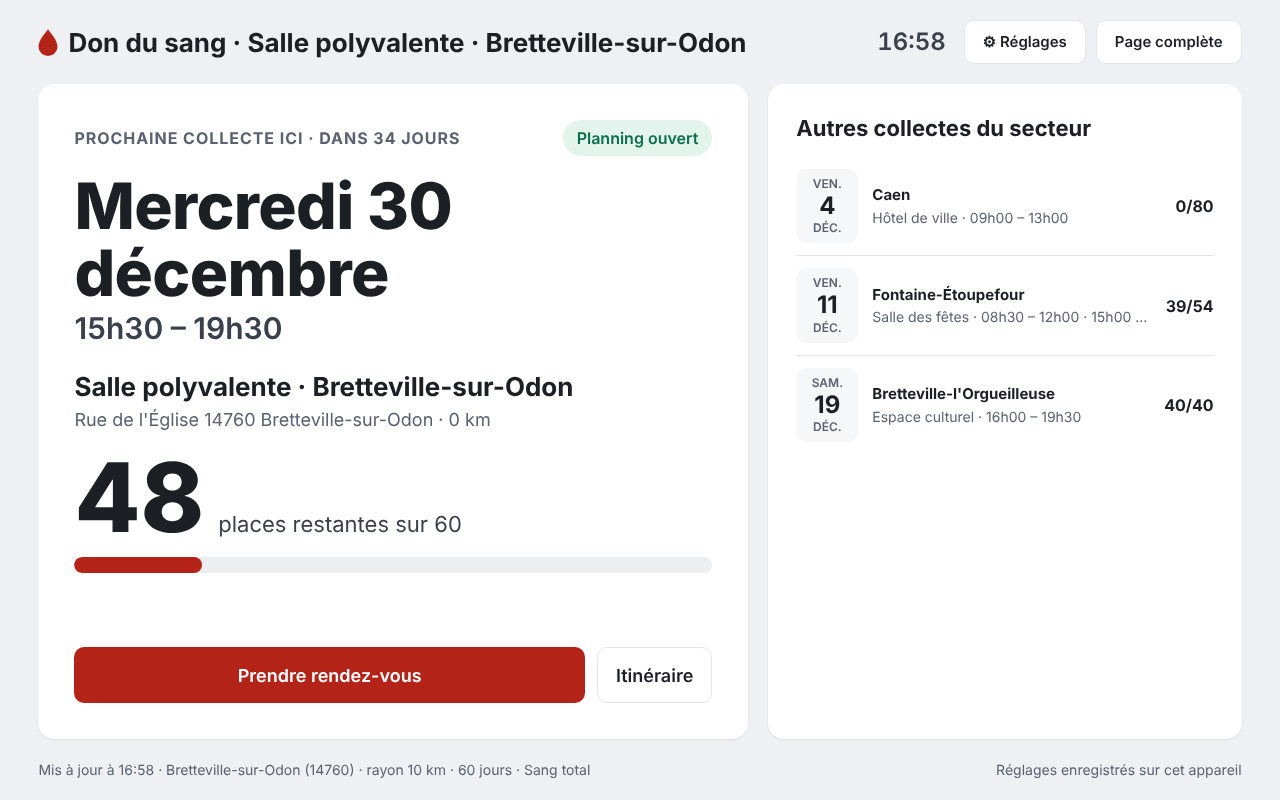
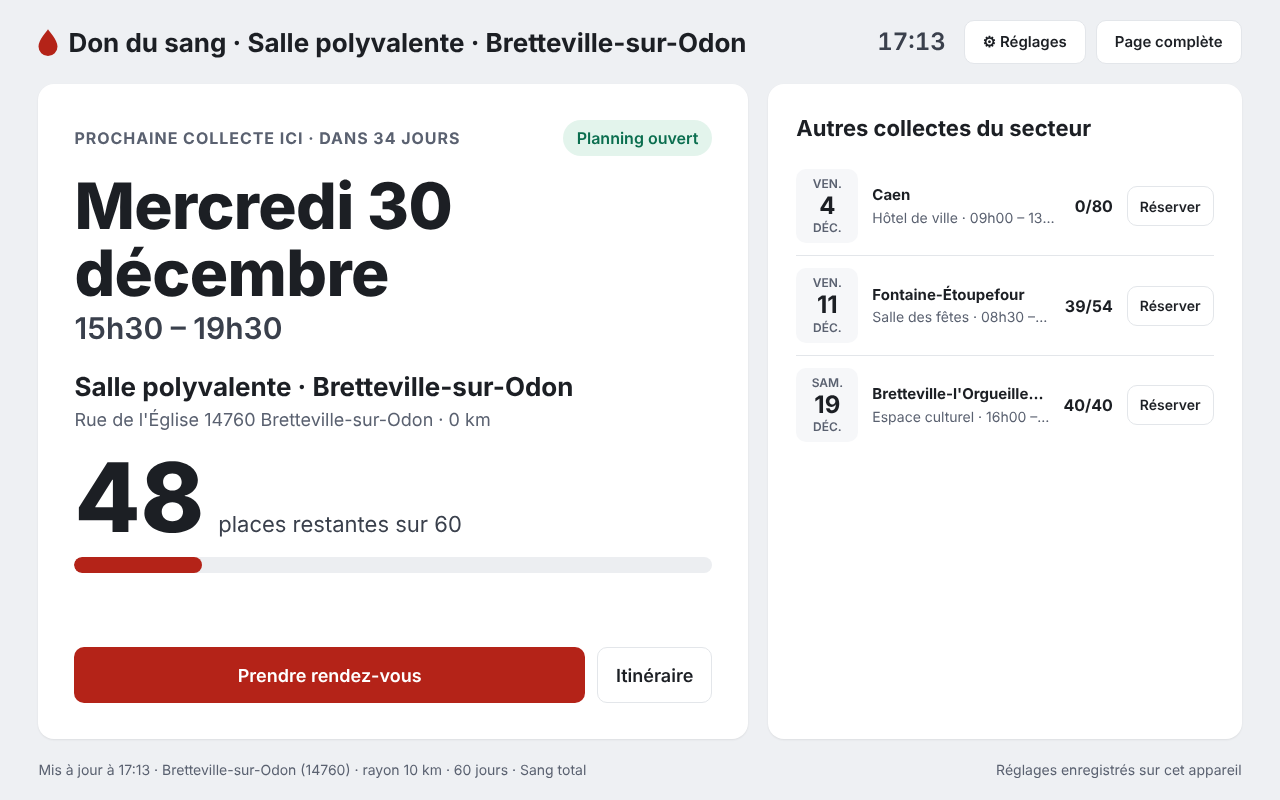
Mode tablette : prise de rendez-vous dans une fenêtre séparée, retour automatique à la tablette
- « Prendre rendez-vous » et « Réserver » (autres collectes) ouvrent le site de l'EFS
  dans une fenêtre dédiée (nouvel onglet sur tablette)
- encart « Prise de rendez-vous en cours » : afficher la fenêtre, la fermer et revenir
- fermeture détectée (surveillance, retour au premier plan) : encart retiré,
  places relues ; repli en onglet classique si les fenêtres sont bloquées
- documentation et captures

Claude-Session: https://claude.ai/code/session_01882uboDzkT9kSx2WJVyJE4

diff --git a/site/js/app.js b/site/js/app.js
@@ -901,7 +901,7 @@
         reglages()));
     } else {
       const ouvert = c.placesRestantes !== null;
-      const rdv = boutonRdv(c);
+      const rdv = boutonRdvTablette(c);
       const carte = h("article", { class: "card tab-carte", "aria-label": "Prochaine collecte" },
         h("div", { class: "row" },
           h("div", { class: "kicker" }, `${auLieu ? "Prochaine collecte ici" : "Prochaine collecte"} · ${relDay(daysUntil(c))}`),
@@ -926,9 +926,12 @@
           ? h("ul", null, suite.map((x) => h("li", null,
             h("div", { class: "d" }, h("small", null, fWd.format(x.debut)), h("strong", null, fDay.format(x.debut)), h("small", null, fMon.format(x.debut))),
             h("div", { class: "who" }, h("b", null, titreCommune(x.commune || x.lieu)), h("span", null, `${x.lieu} · ${x.horaires}`)),
-            h("div", { class: "pl" }, x.placesRestantes === null ? "—" : x.placesTotales ? `${x.placesRestantes}/${x.placesTotales}` : x.placesRestantes))))
+            h("div", { class: "pl" }, x.placesRestantes === null ? "—" : x.placesTotales ? `${x.placesRestantes}/${x.placesTotales}` : x.placesRestantes),
+            h("button", { class: "btn secondary resa", type: "button", onclick: () => ouvrirRdv(x),
+              "aria-label": `Réserver : ${titreCommune(x.commune || x.lieu)}, ${fDateLong.format(x.debut)}` }, "Réserver"))))
           : h("p", { class: "muted" }, "Aucune autre collecte dans la période."));
-      mount("tab-main", alerte, carte, suiteCarte);
+      const info = state.rdvInfo ? h("div", { class: "notice tab-info", role: "status" }, h("p", null, state.rdvInfo)) : null;
+      mount("tab-main", info, alerte, carte, suiteCarte);
     }
     mount("tab-pied",
       h("span", null, [
@@ -941,6 +944,89 @@
       state.tabPremier = false;
       openReglages();
     }
+  }
+
+  // ------------------------------------------------- rendez-vous depuis la tablette
+  // Le donneur est en face de la tablette : la réservation s'ouvre dans une fenêtre séparée
+  // (nouvel onglet sur téléphone ou tablette), la tablette affiche « Prise de rendez-vous en
+  // cours » et reprend la main à la fermeture de cette fenêtre, en actualisant les places.
+  const rdv = { win: null, timer: null, collecte: null };
+
+  function boutonRdvTablette(c) {
+    const r = rendezVous(c);
+    return {
+      bouton: h("button", { class: "btn primary block", type: "button", onclick: () => ouvrirRdv(c),
+        title: "Ouvre le site de l’EFS dans une fenêtre séparée ; la fermer ramène à la tablette" }, "Prendre rendez-vous"),
+      note: r.note ? h("p", { class: "rdv-note" }, r.note) : null,
+    };
+  }
+
+  function ouvrirRdv(c) {
+    const { url } = rendezVous(c);
+    rdv.collecte = c;
+    // Fenêtre déjà ouverte : on la réutilise pour la nouvelle collecte.
+    if (rdv.win && !rdv.win.closed) {
+      try { rdv.win.location.href = url; rdv.win.focus(); } catch { /* fenêtre d'un autre site : laissée telle quelle */ }
+      afficherRdvEnCours();
+      return;
+    }
+    const W = Math.min(1100, screen.availWidth || 1100), H = screen.availHeight || 900;
+    // La fenêtre garde son lien avec la tablette (pas de « noopener ») : c'est ce qui permet de
+    // savoir quand elle est fermée et de la fermer depuis la tablette. Elle ne charge que le
+    // site officiel de l'EFS (dondesang.efs.sante.fr ou ses liens courts efs.link).
+    const w = window.open(url, "efs-rendez-vous", `popup=yes,width=${W},height=${H},left=0,top=0`);
+    if (!w) {
+      // Fenêtres bloquées (navigateur kiosque, bloqueur) : ouverture dans un onglet classique.
+      window.open(url, "_blank", "noopener");
+      state.rdvInfo = "Le navigateur a bloqué la fenêtre de rendez-vous : elle s’est ouverte dans un nouvel onglet. Fermez-le une fois le rendez-vous pris.";
+      renderTablette();
+      return;
+    }
+    rdv.win = w;
+    afficherRdvEnCours();
+    clearInterval(rdv.timer);
+    rdv.timer = setInterval(surveillerRdv, 1000);
+  }
+
+  function afficherRdvEnCours() {
+    const c = rdv.collecte;
+    $("rdv-collecte").textContent = c
+      ? `Collecte : ${cap(fDateLong.format(c.debut))}, ${c.horaires}, ${nomLieu(c)}.`
+      : "";
+    if (!$("rdv-encours").open) $("rdv-encours").showModal();
+  }
+
+  function surveillerRdv() {
+    if (rdv.win && !rdv.win.closed) return;
+    finRdv();
+  }
+
+  function finRdv() {
+    clearInterval(rdv.timer);
+    rdv.timer = null;
+    rdv.win = null;
+    if ($("rdv-encours").open) $("rdv-encours").close();
+    // Les places ont pu changer : relecture immédiate (le relais garde 5 min en cache au plus).
+    state.rdvInfo = "Fenêtre de rendez-vous fermée : les places affichées sont actualisées.";
+    if (!state.demo && state.center) loadCollectes({ silent: true });
+    else renderTablette();
+    setTimeout(() => { state.rdvInfo = null; renderTablette(); }, 15000);
+  }
+
+  function initRdv() {
+    $("rdv-retour").addEventListener("click", () => {
+      if (rdv.win && !rdv.win.closed) rdv.win.focus();
+      else finRdv();
+    });
+    $("rdv-fermer").addEventListener("click", () => {
+      try { if (rdv.win && !rdv.win.closed) rdv.win.close(); } catch { /* ignoré */ }
+      finRdv();
+    });
+    // Échap ferme seulement l'encart : la surveillance continue tant que la fenêtre existe.
+    $("rdv-encours").addEventListener("cancel", (ev) => { if (rdv.win && !rdv.win.closed) ev.preventDefault(); });
+    // Retour sur la tablette (onglet réactivé) : vérification immédiate.
+    document.addEventListener("visibilitychange", () => { if (!document.hidden && rdv.timer) surveillerRdv(); });
+    window.addEventListener("focus", () => { if (rdv.timer) surveillerRdv(); });
   }
 
   // ---------------------------------------------------------- fenêtre de réglages
@@ -1080,6 +1166,7 @@
     $("tab-quitter").addEventListener("click", exitTablette);
     $("tab-reglages").addEventListener("click", openReglages);
     $("top-reglages").addEventListener("click", openReglages);
+    initRdv();
     $("reg-form").addEventListener("submit", saveReglages);
     $("reg-annuler").addEventListener("click", () => $("reglages").close());
     $("reg-oublier").addEventListener("click", forgetReglages);

diff --git a/site/index.html b/site/index.html
@@ -29,6 +29,19 @@
   <div class="tab-pied" id="tab-pied" aria-live="polite"></div>
 </section>
 
+<!-- Mode tablette : prise de rendez-vous dans une fenêtre séparée, pilotée depuis la tablette -->
+<dialog class="reglages rdv-encours" id="rdv-encours" aria-labelledby="rdv-titre">
+  <div class="rdv-corps">
+    <h2 id="rdv-titre">Prise de rendez-vous en cours</h2>
+    <p id="rdv-texte">La réservation se fait dans une fenêtre du site de l’Établissement français du sang. Une fois le rendez-vous pris, fermez cette fenêtre : vous revenez ici et les places sont actualisées.</p>
+    <p class="note" id="rdv-collecte"></p>
+    <div class="reg-actions">
+      <button class="btn primary" type="button" id="rdv-retour">Afficher la fenêtre de rendez-vous</button>
+      <button class="btn secondary" type="button" id="rdv-fermer">Fermer la fenêtre et revenir</button>
+    </div>
+  </div>
+</dialog>
+
 <dialog class="reglages" id="reglages" aria-labelledby="reg-titre">
   <form id="reg-form" novalidate>
     <h2 id="reg-titre">Réglages de la tablette</h2>

diff --git a/site/css/styles.css b/site/css/styles.css
@@ -234,4 +234,9 @@ dialog.reglages .note{margin:0;font-size:13px;color:var(--muted)}
 .reg-grid .f{grid-column:auto}
 .reg-grid .f.full{grid-column:1 / -1}
 .reg-actions{display:flex;flex-wrap:wrap;gap:10px}
+.rdv-corps{padding:28px;display:flex;flex-direction:column;gap:14px}
+.rdv-corps p{margin:0;font-size:17px;line-height:1.5}
+.rdv-corps .btn{min-height:56px;font-size:17px}
+.tab-suite .resa{min-height:40px;padding:0 12px;font-size:14px}
+.tab-info{grid-column:1 / -1;background:var(--ok-soft);color:var(--text)}
 @media (max-width:520px){.reg-grid{grid-template-columns:minmax(0,1fr)}}

diff --git a/MODE_OPERATOIRE.md b/MODE_OPERATOIRE.md
@@ -43,6 +43,7 @@ Règles de filtrage appliquées :
 
 - **Mode tablette** (bouton « Mode tablette » en haut à droite, à côté de « ⚙ Réglages », ou adresse `…/?mode=tablette` ; « Page complète » ramène à la page normale). Affichage lisible de loin du **lieu de collecte choisi** : date, horaires, places restantes, jauge, bouton de rendez-vous, puis les autres collectes du secteur, l'heure et la mise à jour. Voir § 7.
 - **Réglages par bouton.** « ⚙ Réglages » ouvre une fenêtre avec le lieu initial (code postal, commune), le rayon, le nombre de jours, le type de don et le lieu de collecte affiché ; la liste des lieux se recalcule à chaque changement. « Enregistrer » les conserve dans le cookie `efs_tablette` (un an) ; la case « Ouvrir directement en mode tablette » fait démarrer la page en mode tablette sur cet appareil. « Oublier ces réglages » efface le cookie.
+- **Rendez-vous avec un donneur présent (tablette)** : la réservation s'ouvre dans une fenêtre séparée, la tablette affiche « Prise de rendez-vous en cours » et reprend la main à la fermeture de cette fenêtre, places actualisées ; bouton « Réserver » sur chaque autre collecte.
 - **Bouton « Prendre rendez-vous » toujours présent** sur la prochaine collecte (page et tablette) : lien direct quand le planning est ouvert, sinon page de réservation du site de l'EFS, avec une explication (planning non ouvert, collecte complète).
 - **Rayon 0 = uniquement la commune du code postal**, comme l'intégration Home Assistant 1.4.1 : la page interroge l'API à 10 km puis ne garde que les collectes de la commune. Le rayon 0 n'est pas proposé avec « Utiliser ma position » (pas de commune de référence).
 - **Nombre de jours** de 1 à 180 (champ libre, défaut 30) au lieu de l'ancienne liste 30/60/90/180. Une valeur hors bornes, ou un rayon hors 0–50 km dans les réglages, est signalée sous le champ et la recherche n'est pas lancée.
@@ -293,6 +294,7 @@ Ouvrir directement `index.html` par double-clic fonctionne généralement aussi,
 - [ ] Rayon 0 avec 14760 : seules les collectes de Bretteville-sur-Odon restent ; le bandeau indique « Bretteville-sur-Odon seulement ».
 - [ ] Nombre de jours 200 : message sous le champ, aucune nouvelle recherche.
 - [ ] « Mode tablette » : la fenêtre de réglages s'ouvre ; choisir un lieu, « Enregistrer » ; recharger la page sans paramètre : elle s'ouvre en mode tablette sur ce lieu. « Page complète » revient à la page normale ; « Mode tablette » (en haut à droite) y retourne.
+- [ ] Tablette : « Prendre rendez-vous » ouvre une fenêtre séparée et l'encart « Prise de rendez-vous en cours » ; fermer la fenêtre (ou « Fermer la fenêtre et revenir ») retire l'encart et actualise les places.
 - [ ] « Prendre rendez-vous » : collecte au planning ouvert → lien direct de la collecte ; collecte complète ou planning non ouvert → page de réservation du site de l'EFS, avec une phrase d'explication sous le bouton.
 - [ ] Option D : les deux adresses de vérification du relais renvoient du JSON.
 
@@ -316,7 +318,11 @@ Neuf scénarios portent sur la réponse enregistrée : géométrie, critères de
 2. La fenêtre **Réglages de la tablette** s'ouvre au premier usage. Exemple : code postal `14760`, rayon `10`, nombre de jours `30`, type « Sang total », lieu de collecte « Salle polyvalente · Bretteville-sur-Odon ». Si le lieu voulu n'apparaît pas, augmenter le nombre de jours : la liste se recalcule aussitôt.
 3. Laisser cochée **Ouvrir directement en mode tablette sur cet appareil**, puis **Enregistrer**. Les réglages sont conservés un an dans le cookie `efs_tablette` de ce navigateur.
 4. Pour modifier le lieu initial, le rayon ou le nombre de jours : bouton **⚙ Réglages** en haut à droite. **Page complète** revient à la page normale pour la visite en cours, sans effacer les réglages ; sur la page normale, les boutons **⚙ Réglages** et **Mode tablette**, côte à côte en haut à droite, permettent de régler la tablette et d'y revenir en un clic. « Oublier ces réglages » efface le cookie.
-5. **Prendre rendez-vous** : le bouton de la prochaine collecte ouvre le site de l'EFS dans un nouvel onglet. Planning ouvert : lien direct vers la collecte affichée, pour bloquer un créneau. Planning non encore ouvert ou collecte complète : page de réservation de l'EFS (« Trouver une collecte »), avec une phrase qui l'explique sous le bouton.
+5. **Prendre un rendez-vous avec un donneur présent** : « Prendre rendez-vous » (prochaine collecte) ou « Réserver » (chaque ligne des autres collectes) ouvre le site de l'EFS dans une **fenêtre séparée** — un nouvel onglet sur téléphone ou tablette. Planning ouvert : lien direct vers la collecte, pour bloquer un créneau ; planning non encore ouvert ou collecte complète : page « Trouver une collecte » de l'EFS, avec une phrase d'explication sous le bouton.
+   - Pendant la réservation, la tablette affiche **« Prise de rendez-vous en cours »** avec la collecte concernée, et deux boutons : *Afficher la fenêtre de rendez-vous* (la ramener au premier plan) et *Fermer la fenêtre et revenir*.
+   - Une fois le rendez-vous pris, fermer la fenêtre (ou l'onglet) suffit : la tablette le détecte, retire l'encart et **relit aussitôt les places** (« Fenêtre de rendez-vous fermée : les places affichées sont actualisées »).
+   - Si le navigateur bloque les fenêtres (certains navigateurs kiosque), la réservation s'ouvre dans un onglet classique et un message le signale : le fermer ramène aussi à la tablette, mais sans actualisation automatique (bouton « Actualiser » de la page normale, ou attendre l'actualisation horaire). Dans *Fully Kiosk Browser*, autoriser les fenêtres pop-up (*Web Content Settings → Enable Popups*).
+   - Sécurité : la fenêtre garde un lien avec la tablette (nécessaire pour la surveiller et la fermer) et ne charge que le site officiel de l'EFS.
 6. Affichage permanent (facultatif) :
    - Android : ajouter la page à l'écran d'accueil (menu ⋮ → *Ajouter à l'écran d'accueil*), ou utiliser une application kiosque (*Fully Kiosk Browser*) avec l'adresse `…/?mode=tablette` et l'écran toujours allumé ;
    - iPad : Safari → Partager → *Sur l'écran d'accueil*, et *Accès guidé* (Réglages → Accessibilité) pour verrouiller l'écran sur la page.

diff --git a/README.md b/README.md
@@ -18,6 +18,10 @@ Le bouton **Mode tablette**, en haut à droite à côté de **⚙ Réglages**, b
 
 ![Mode tablette en paysage : prochaine collecte à la Salle polyvalente de Bretteville-sur-Odon](images/tablette-paysage.png)
 
+**Prendre un rendez-vous avec le donneur en face de soi** : « Prendre rendez-vous » (prochaine collecte) ou « Réserver » (autres collectes) ouvre le site de l’EFS dans une **fenêtre séparée**. La tablette affiche « Prise de rendez-vous en cours » ; une fois le créneau réservé, on ferme cette fenêtre — ou on touche « Fermer la fenêtre et revenir » — et l’on retrouve la tablette, places actualisées.
+
+![Prise de rendez-vous en cours depuis la tablette](images/tablette-rendez-vous.png)
+
 Le bouton **⚙ Réglages** ouvre une fenêtre simple pour changer le **lieu initial** (code postal, commune), le **rayon**, le **nombre de jours**, le type de don et le **lieu de collecte affiché**. La liste des lieux se met à jour à chaque changement. **Enregistrer** conserve ces réglages dans un cookie de la tablette (`efs_tablette`, un an) : elle rouvre la page directement en mode tablette, sur ce lieu.
 
 ![Fenêtre de réglages de la tablette](images/tablette-reglages.png)
